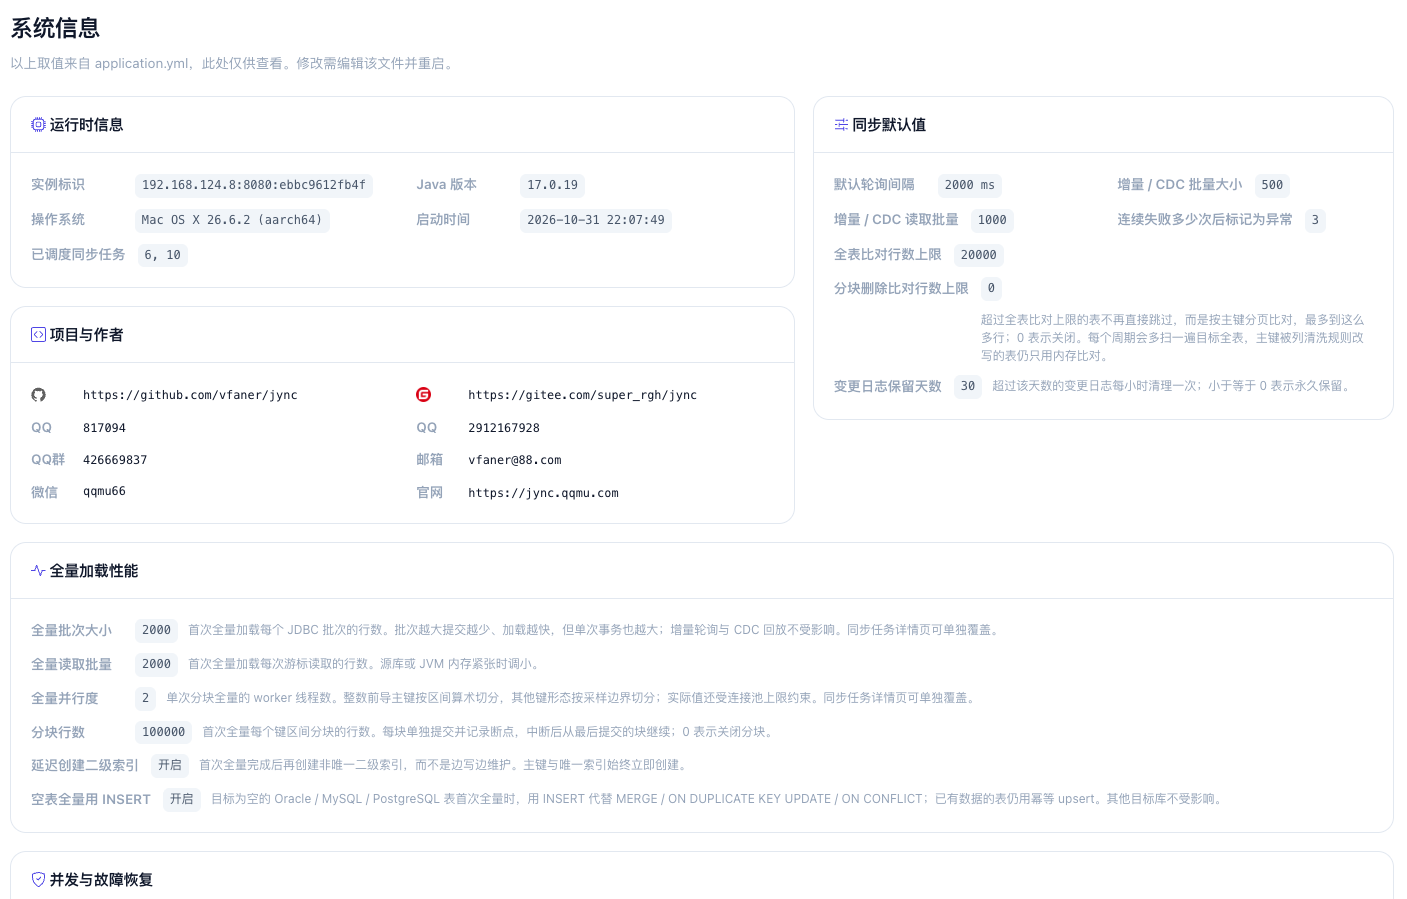
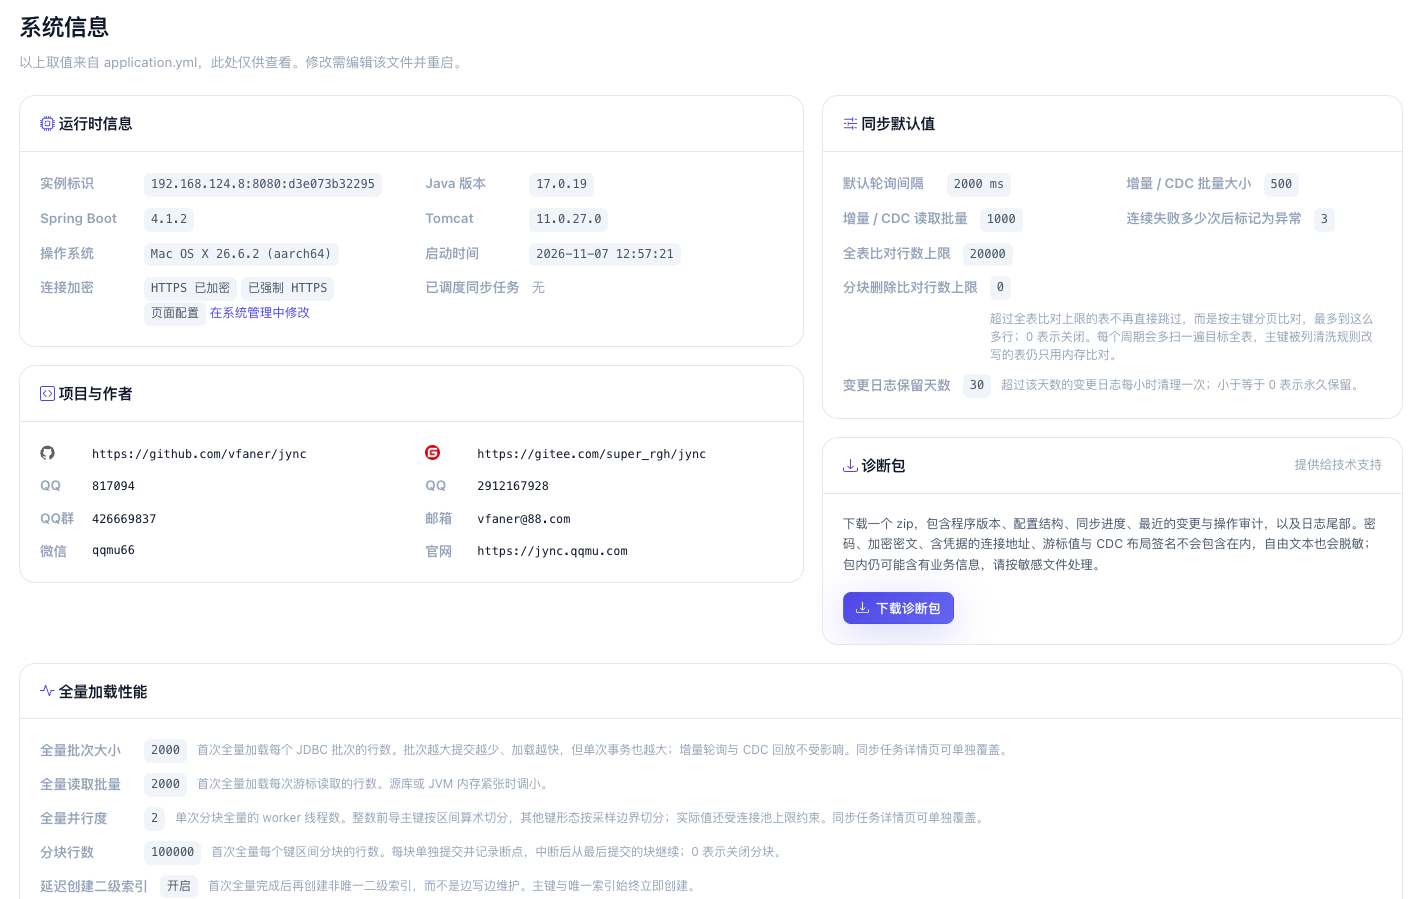
docs(release): 更新 v2.0.0 发布说明、截图与任务列表标题
- 发布说明测试基线更新为 5325（5324 通过、1 个按环境跳过）
- README 横幅重新生成：v2.0.0、5325 项测试、应用内 HTTPS 与 Spring Boot 4.1
- 同步 8 张 jync_ 前缀截图，新增系统配置页与专属迁移页
- 同步任务列表标题改为「实时同步任务」（英文 Real-time sync tasks），
  新增 ProjectListHeadingViewTest 钉住中英文标题

diff --git a/src/test/java/com/qqmu/jync/controller/ProjectListHeadingViewTest.java b/src/test/java/com/qqmu/jync/controller/ProjectListHeadingViewTest.java
@@ -1,0 +1,101 @@
+package com.qqmu.jync.controller;
+
+import static org.assertj.core.api.Assertions.assertThat;
+import static org.mockito.ArgumentMatchers.any;
+import static org.mockito.Mockito.when;
+import static org.springframework.security.test.web.servlet.request.SecurityMockMvcRequestPostProcessors.authentication;
+import static org.springframework.test.web.servlet.request.MockMvcRequestBuilders.get;
+import static org.springframework.test.web.servlet.result.MockMvcResultMatchers.status;
+
+import java.nio.charset.StandardCharsets;
+import java.util.List;
+import java.util.Locale;
+import java.util.Map;
+
+import org.junit.jupiter.api.Test;
+import org.springframework.beans.factory.annotation.Autowired;
+import org.springframework.boot.webmvc.test.autoconfigure.WebMvcTest;
+import org.springframework.context.annotation.Import;
+import org.springframework.security.authentication.UsernamePasswordAuthenticationToken;
+import org.springframework.test.context.TestPropertySource;
+import org.springframework.test.context.bean.override.mockito.MockitoBean;
+import org.springframework.test.web.servlet.MockMvc;
+import org.springframework.test.web.servlet.request.RequestPostProcessor;
+
+import com.qqmu.jync.model.AppUser;
+import com.qqmu.jync.model.UserRole;
+import com.qqmu.jync.service.DatabaseConfigService;
+import com.qqmu.jync.service.ProjectService;
+import com.qqmu.jync.service.auth.SyncUserDetails;
+import com.qqmu.jync.service.cdc.CdcConsumerManager;
+import com.qqmu.jync.service.cdc.CdcOperationsService;
+import com.qqmu.jync.service.cdc.CdcPositionStore;
+import com.qqmu.jync.service.projection.redis.RedisTargetService;
+
+/**
+ * The list page sits under the 实时同步 menu entry, but its heading said only "同步任务" —
+ * the same words as the menu group that holds every sync feature, so the page named the
+ * section rather than itself. The heading now names the real-time task list.
+ */
+@WebMvcTest(ProjectController.class)
+@Import(GlobalModelAdvice.class)
+@TestPropertySource(properties = "app.github-url=https://example.com/repo")
+class ProjectListHeadingViewTest {
+
+    @Autowired
+    private MockMvc mvc;
+
+    @MockitoBean
+    private ProjectService projectService;
+
+    @MockitoBean
+    private DatabaseConfigService databaseConfigService;
+
+    @MockitoBean
+    private CdcOperationsService cdcOperationsService;
+
+    @MockitoBean
+    private CdcConsumerManager cdcConsumerManager;
+
+    @MockitoBean
+    private CdcPositionStore cdcPositionStore;
+
+    @MockitoBean
+    private RedisTargetService redisTargetService;
+
+    @Test
+    void theHeadingNamesRealTimeSyncTasksInChinese() throws Exception {
+        String html = page(Locale.SIMPLIFIED_CHINESE);
+
+        assertThat(html).contains("<h1>实时同步任务</h1>");
+    }
+
+    @Test
+    void theHeadingNamesRealTimeSyncTasksInEnglish() throws Exception {
+        String html = page(Locale.ENGLISH);
+
+        assertThat(html).contains("<h1>Real-time sync tasks</h1>");
+    }
+
+    private String page(Locale locale) throws Exception {
+        when(projectService.count()).thenReturn(0L);
+        when(projectService.findPage(any(Integer.class), any(Integer.class)))
+                .thenReturn(List.of());
+        when(projectService.findTasks(any())).thenReturn(Map.of());
+
+        return mvc.perform(get("/projects").locale(locale).with(asAdmin()))
+                .andExpect(status().isOk())
+                .andReturn().getResponse().getContentAsString(StandardCharsets.UTF_8);
+    }
+
+    private static RequestPostProcessor asAdmin() {
+        AppUser user = new AppUser();
+        user.setId(1L);
+        user.setUsername("admin");
+        user.setPasswordHash("not-checked-here");
+        user.setRole(UserRole.ADMIN);
+        SyncUserDetails principal = new SyncUserDetails(user, false);
+        return authentication(new UsernamePasswordAuthenticationToken(
+                principal, null, principal.getAuthorities()));
+    }
+}

diff --git a/docs/release-notes/RELEASE_NOTES_v2.0.0.md b/docs/release-notes/RELEASE_NOTES_v2.0.0.md
@@ -2,35 +2,32 @@
 
 ## 升级内容
 
-- **Spring Boot 4.1.2 平台升级**：Spring Framework 7.0、Spring Security 7.1、Hibernate ORM 7.4、Tomcat 11、Jackson 3、Lettuce 7、MongoDB 同步驱动 5.8。Web、JPA、Security、Thymeleaf、Quartz 与全部数据库驱动的功能范围与 v1.14.0 一致。
-- **Jakarta EE 命名空间**：`javax.*` 全部迁移到 `jakarta.*`；内嵌 Tomcat 从 9 升到 11（Servlet 6.1 / Jakarta EE 11）。仍要求 **Java 17+**，`application.yml`、数据目录、JDBC 驱动与外部反向代理配置不需要改。
-- **兼容性处理**：升级不会改变页面与配置包对外的数据格式。
-  - Jackson 3 默认把 `java.time` 写成 ISO 字符串；全局恢复 1.x 的 epoch 时间戳输出，页面 JavaScript 不需要改。配置包 `meta.exportedAt` 仍保持 ISO-8601 文本契约。
-  - Hibernate 7 默认把 `Instant` 映射为 `TIMESTAMP WITH TIME ZONE`；显式固定为 `TIMESTAMP`，并让原生查询返回 JDBC 时间类型，元数据库时间列与聚合查询结果保持 1.x 语义。
-  - Spring Security 7 登录后保存的 URL 会附带 `?continue` 标记；登录跳转与权限判定不变。
-  - 内嵌 H2 固定为 **2.1.214**：1.x 在 `./data/jync.mv.db` 写下的 MVStore 文件使用旧写入格式，H2 2.2 及以上会直接报「Unsupported database file version」。固定 2.1.214 后，默认内嵌元数据库可以原地升级，无需导出导入；外部 MySQL / PostgreSQL 元数据库不受影响。
-- **依赖瘦身**：移除不会被运行期加载的构件，保持全部功能不变。
-  - Hibernate 的 JAXB 绑定实现（`jaxb-runtime`、`jaxb-core`、`txw2`、`istack-commons-runtime`、`angus-activation`）：应用只用注解映射，没有 `orm.xml` / `hbm.xml`。`jakarta.xml.bind-api` 保留——Hibernate 7 在启动构建元数据时会链接 `JAXBException`，即使没有 XML 映射文件。
-  - Tomcat 的 Jakarta EL 实现（`tomcat-embed-el`）：模板使用 Thymeleaf SpringEL，未引入 Bean Validation。
-  - PostgreSQL 驱动的 `checker-qual`（仅注解，运行期不加载）。
-  - Web 依赖改用 Boot 4 的 `spring-boot-starter-webmvc`；WebSocket 与 AspectJ 织入继续保持排除。
-  - 相对未瘦身的 Boot 4 构建，fat jar 减少约 1.76 MB（108.4 MB → 106.6 MB）；平台升级本身带来体积增长，2.0.0 最终约 106.6 MB（v1.14.0 为 88.9 MB）。
+- **Spring Boot 4.1.2**：Spring Framework 7.0、Spring Security 7.1、Hibernate ORM 7.4、Tomcat 11、Jackson 3、Lettuce 7、MongoDB 同步驱动 5.8；`javax.*` 全部迁移到 `jakarta.*`。功能范围与 v1.14.0 一致，仍要求 **Java 17+**，`application.yml`、数据目录、JDBC 驱动与反向代理配置都不用改。
+- **对外格式不变**：
+  - Jackson 3 恢复 1.x 的 epoch 时间戳输出，配置包 `meta.exportedAt` 仍为 ISO-8601；
+  - Hibernate 7 的 `Instant` 固定映射为 `TIMESTAMP`，元数据库时间列与聚合查询保持 1.x 语义；
+  - Spring Security 7 登录后保存的 URL 会附带 `?continue`，跳转与权限判定不变；
+  - 存储密文格式不变：新加密器与旧 `Encryptors.delux` 双向互读，数据库口令、告警地址等已加密字段无需重新录入；
+  - 内嵌 H2 固定为 **2.1.214**，1.x 写下的 `./data/jync.mv.db` 可原地升级（2.2+ 会报「Unsupported database file version」）；外部 MySQL / PostgreSQL 元数据库不受影响。
+- **依赖瘦身**：移除运行期不会加载的构件（Hibernate 的 JAXB 绑定实现、Tomcat 的 Jakarta EL 实现、PostgreSQL 驱动的 `checker-qual`），Web 依赖改用 Boot 4 的 `spring-boot-starter-webmvc`。相较未瘦身的 Boot 4 构建 fat jar 减少约 1.76 MB；2.0.0 最终约 106.6 MB（v1.14.0 为 88.9 MB）。
 
 ## 修复与优化
 
-- **干净克隆可直接编译**：修正 `.gitignore` 中 `*secret*` 误伤 `ConfigSecretTranslator.java` 及其测试的问题，源码包与 CI 不再需要手工拷贝这两个文件。
-- **Oracle XML 栈对齐**：`xdb` 改由 Spring Boot BOM 管理，与 `ojdbc8` / `orai18n` 统一到 23.26.3.0.0；`xmlparserv2_sans_jaxp_services` 同步到同一版本。1.14 的 21.5.0.0 `xdb` 与 23.x 驱动混用，在 XMLTYPE 路径上存在链接到驱动已移除内部类的风险；本版把两者对齐消除该风险。
-- **过期 API 清理**：`EnvironmentPostProcessor` 迁移到 Boot 4 的 `org.springframework.boot.EnvironmentPostProcessor` 注册键；Jackson 3 的 `asText` / `isTextual` 全部替换为 `asString` / `isString`；`HttpStatus.PAYLOAD_TOO_LARGE` 改为 `CONTENT_TOO_LARGE`；`org.springframework.lang.Nullable` 改为 jspecify；Lettuce 集群节点标志 `MASTER` 改为 `UPSTREAM`；MySQL 驱动改用 `com.mysql:mysql-connector-j` 坐标。存储密文格式不变：新增的兼容加密器与旧 `Encryptors.delux` 双向互读。
-- **运行时信息更完整**：设置页「运行时信息」卡片新增 Spring Boot 与内嵌 Tomcat 版本，升级后不必查日志或 jar 文件名就能确认实际运行的平台。
-- **Redis 缓存维护归位**：重建缓存与「先删除前缀键」从日常运行按钮行移到右侧缓存列，紧跟「缓存投影」卡片；只对目标为 Redis 的项目、且仅管理员渲染，数据库项目与只读账号的页面不再出现这组 Redis 专属操作。
-- **测试基线**：全量 5286 个测试通过（1 个按环境跳过）；Boot 4 拆分的测试切片补齐 `webmvc-test`、`data-jpa-test` 与 `security-test` 依赖，并新增内嵌 H2 文件格式守卫、尾斜杠 404 回归、旧 `delux` 密文互读与 Redis 缓存维护卡片可见性测试。
-- **文档同步**：README / README_EN 技术栈更新为 Spring Boot 4.1；Dockerfile、Compose、K8s 清单与容器部署文档的示例版本号更新为 2.0.0。
+- **Redis 缓存维护**：重建缓存与「删除前缀键」移到缓存投影卡片旁，只对 Redis 目标的管理员显示；重建全程持有同步租约，忙时返回可翻译提示，任何路径都会释放，不再与运行中的同步任务互踩，也不会误删相邻前缀的键。
+- **CDC 与配置包**：CDC 重建在「位点已重置但消费者启动失败」时返回 503 并补写变更记录与审计，不再用裸 500 掩盖可重试的事实；重建相关错误全部改为 i18n key；配置包导入拒绝缺少 Redis 目标的 REDIS 项目，JDBC 项目缺目标库改为导入成功并警告，同时清掉跨类型的陈旧目标 id。
+- **专属控件不再串到通用页面**：轮询专属的游标设置与说明只在管理员且非 CDC 时出现；重置进度在 CDC 项目隐藏，重建基线只对非 Redis 的 CDC 项目出现；Redis 项目不再渲染行数核对、目标预览、内容校验与第二套重建入口；ETL 的 MongoDB 续跑提示只对原生 MongoDB 源显示。
+- **后端补齐与页面一致的守卫**：Redis 项目的存储策略仍是轮询时，启动与立即同步被拒；Redis 重建先校验目标类型再校验运行状态；被启用任务引用的 Redis 目标禁止编辑并提示任务名；保存 Redis 项目配置不再清空页面未渲染的选项、调度与性能字段。
+- **配置正确性**：Oracle 挖掘账号与口令只对「Oracle 源库」保存，连接改用其他类型后自动清空，下次切回 Oracle 不会复用旧凭据；Redis key 前缀留空自动补 `jync:<id>:`，不再标必填；项目运行中锁定端点后由隐藏字段原样提交已保存拓扑。
+- **性能**：Prometheus 抓取只查询项目/连接的 id 与名称，迁移首页只取计数，不再为两个标签字段加载带 `@Lob` 的整行实体。
+- **平台适配**：修正 `.gitignore` 中 `*secret*` 误伤 `ConfigSecretTranslator.java` 的问题；`xdb` 与 `ojdbc8` / `orai18n` 统一到 23.26.3.0.0，消除 1.14 混用 21.5 驱动在 XMLTYPE 路径上的链接风险；清理 Boot 4 / Jackson 3 / Security 7 / Lettuce 7 的过期 API；设置页「运行时信息」新增 Spring Boot 与内嵌 Tomcat 版本。
+- **测试基线**：全量 **5325** 个测试通过（1 个按环境跳过）；新增 H2 文件格式守卫、尾斜杠 404 回归、旧 `delux` 密文互读、跨模式控件可见性、投影查询与列表标题测试。
+- **文档同步**：README / README_EN 技术栈更新为 Spring Boot 4.1；Dockerfile、Compose、K8s 清单与容器部署文档的示例版本号为 2.0.0。
 
 ## 已知边界
 
 - 本版是平台升级，不改变 v1.14.0 的功能范围；1.14.0 的已知边界继续适用。
 - 元数据库表结构由 Hibernate 自动更新。升级前请照常备份 `./data`、外部元数据库与 `application.yml`；使用外部 MySQL / PostgreSQL 元数据库时建议先在副本上启动一次。
-- 内嵌 H2 固定为 2.1.214，以保持 1.x 的 `data/jync.mv.db` 可直接打开；不要自行把 H2 换成 2.2 及以上版本。后续升级 H2 时会另行提供导出/导入迁移工具。
+- 内嵌 H2 固定为 2.1.214，不要自行换成 2.2 及以上；后续升级 H2 时会另行提供导出/导入迁移工具。
 - `*IT` 集成测试（Oracle / MySQL / PostgreSQL / ClickHouse / MariaDB / Redis / MongoDB 真库）不在 `mvn test` 默认范围，需显式运行。
 
 ---
